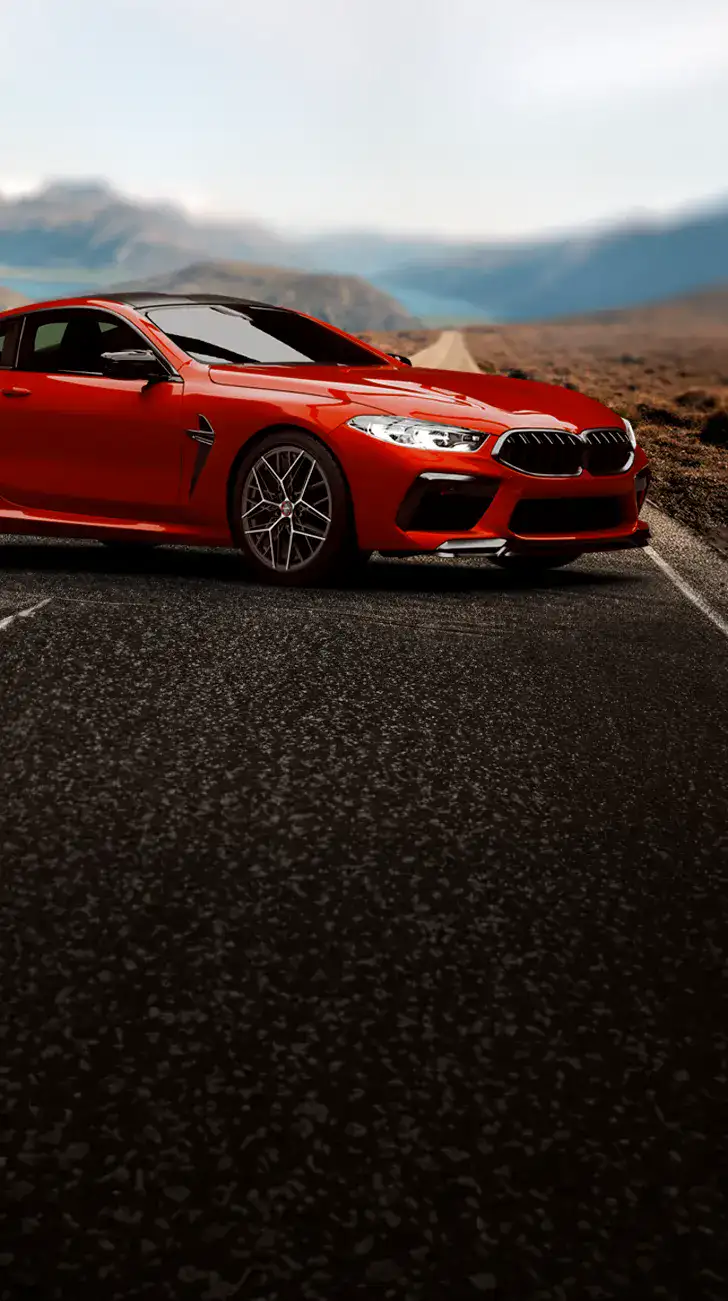
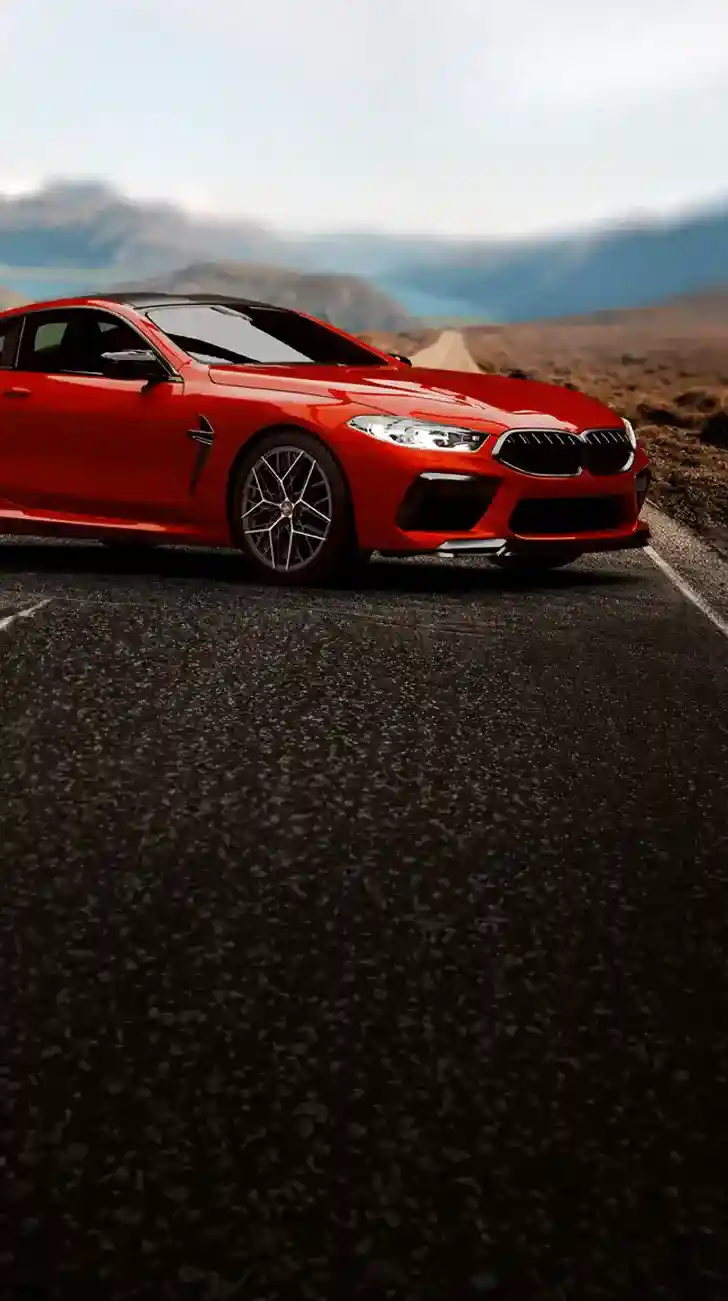
hero mobil fix

diff --git a/components/home/HeroMobile.js b/components/home/HeroMobile.js
@@ -248,17 +248,17 @@ const HeroMobile = ( {device} ) => {
                     </div>
 
                 </div>
-                <Image 
-                    src="/hero/0224-herobanner-mobile.webp"
-                    alt="bg"
-                    sizes="400px"
-                    fill
-                    style={{
-                        objectFit: 'cover',
-                        zIndex: 1
-                    }}
-                    priority={true}
-                />
+                <div className="herobanner-mobil-bg-wrapper">
+                    <Image 
+                        src="/hero/0224-herobanner-mobile.webp"
+                        alt="bg"
+                        sizes="400px"
+                        layout='fill'
+                        objectFit='cover'
+                        placeholder='empty'
+                        priority={true}
+                    />
+                </div>  
             </div>  
         </>
         

diff --git a/app/globals.css b/app/globals.css
@@ -315,3 +315,9 @@ li[data-tax="season"]:hover:not(.pasif) span {
 .see-deals-btn {
   text-shadow: 0px 0px 10px #000000ad;
 }
+.herobanner-mobil-bg-wrapper:before {
+  content: '';
+  display: block;
+  min-height: 100%;
+  background-color: green;
+}
